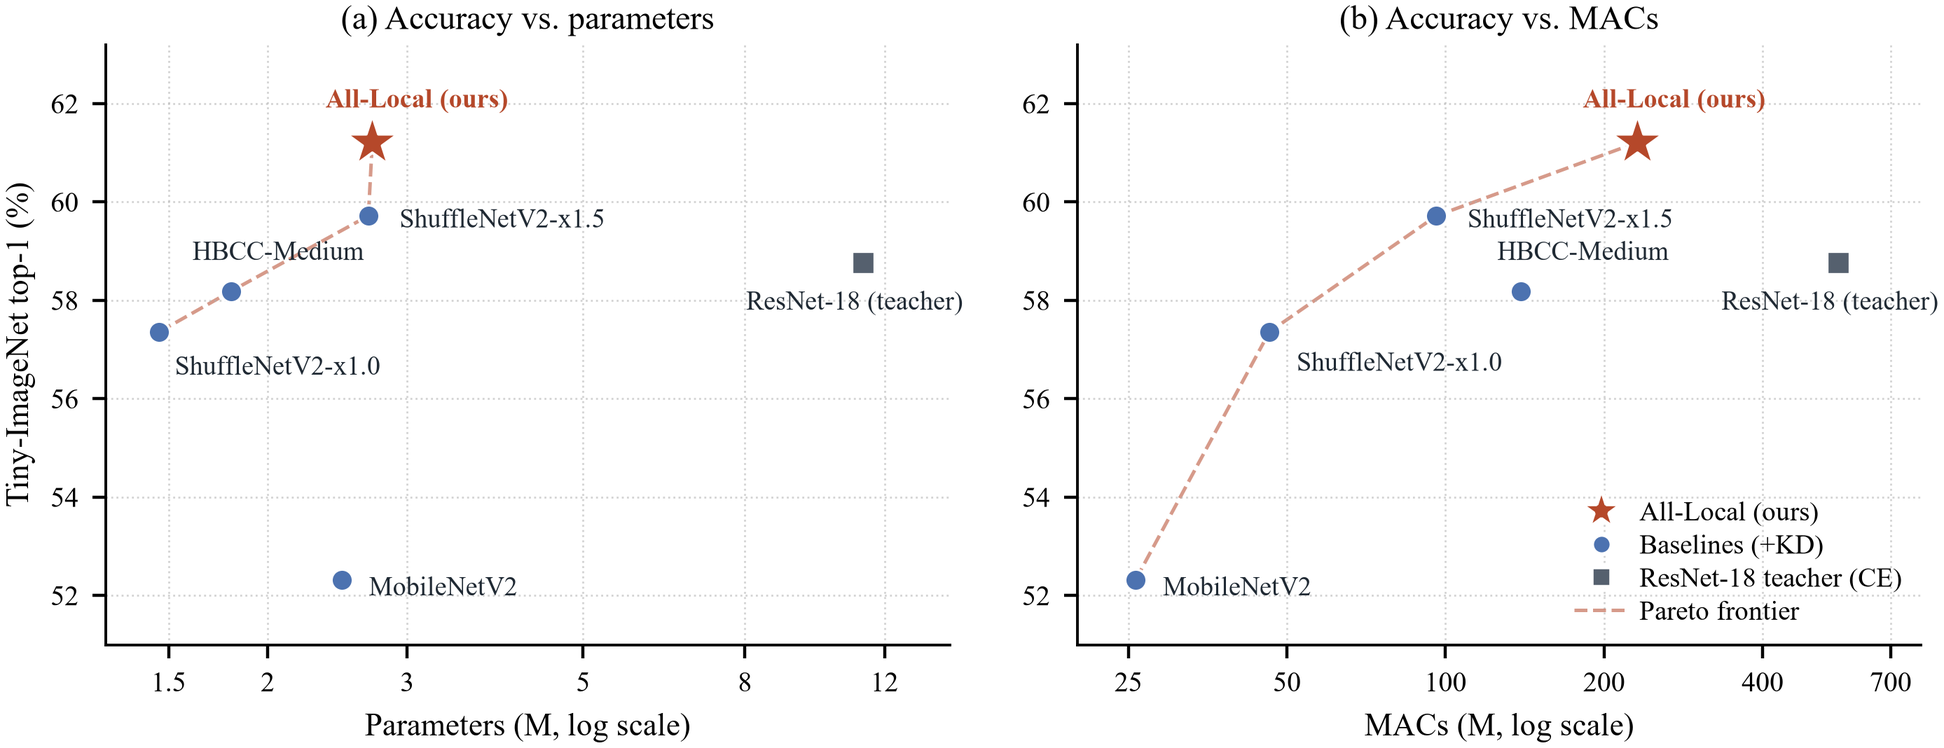
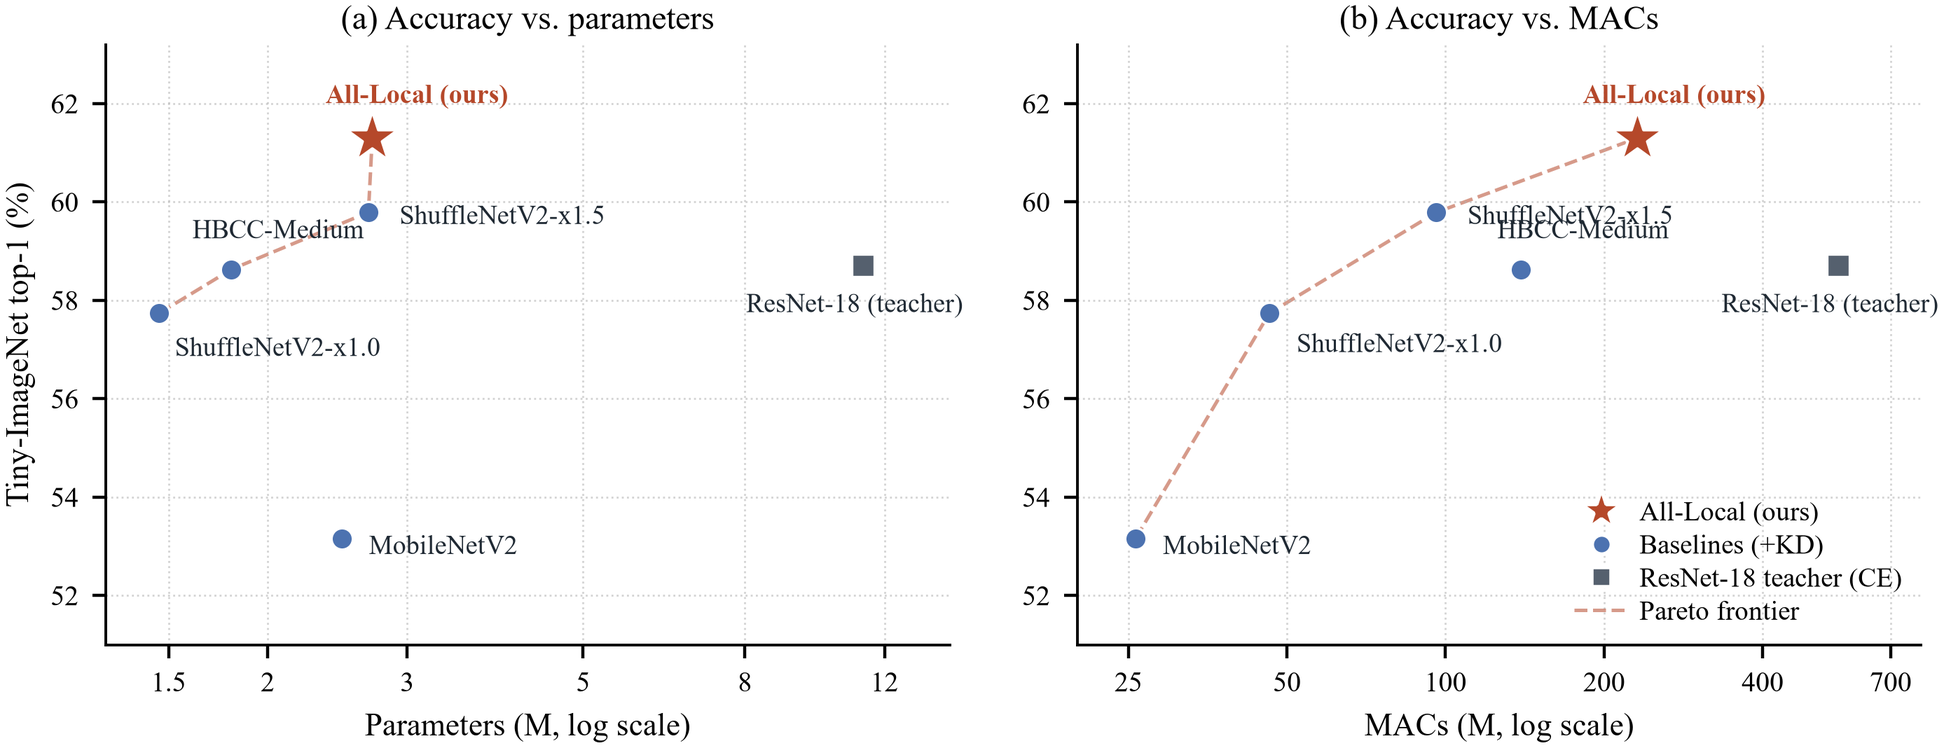
Report test accuracy instead of best-validation accuracy
Table I was reporting the best validation accuracy reached during training,
which is the quantity used for checkpoint selection and therefore optimistic.
Papers report held-out test accuracy, so switch every accuracy number in the
paper to the test split, recomputed from each run's test_predictions.npy.

Checkpoint selection is unaffected: test is evaluated once per run, after
best.pth has already been chosen on a separate validation split, so no
selection used these numbers.

Three conclusions move:

  - Tiny-ImageNet cross-entropy over ShuffleNetV2-x1.5 gains significance
    (+0.90 pp, p = 0.030, was +0.47 pp at p = 0.051).
  - CIFAR-10 cross-entropy loses it (+0.39 pp, p = 0.073, was p = 0.024).
  - Against the teacher under cross-entropy the sign flips, from -0.07 pp to
    +0.21 pp; it stays a tie (p = 0.345), so the conditional claim stands.

The distilled headline strengthens slightly: 61.30 +- 0.39 on Tiny-ImageNet,
+1.51 pp over x1.5 (p = 0.008) and +2.59 pp over the teacher (p = 0.003).
The distillation asymmetry narrows, from roughly one point to roughly six
tenths, and the prose now says so. The stage-1 operator comparison is an
exact tie on test (61.30 against 61.30), which does not change the decision
to adopt the learned convolution, since that rested on activation memory.

McNemar results are untouched: they always used test predictions.

Also fix an abstract overclaim that predates this change: the model exceeds
[…]

diff --git a/submission/section4_experiments.tex b/submission/section4_experiments.tex
@@ -68,35 +68,35 @@ are available at \mbox{\url{github.com/nvhungus/context-cluster-ablation}}.
 \label{sec:main}
 
 Table~\ref{tab:main} reports both datasets. Under distillation the proposed
-All-Local model reaches $61.21 \pm 0.40$ top-1 on Tiny-ImageNet, against $59.72 \pm 0.14$ for
+All-Local model reaches $61.30 \pm 0.39$ top-1 on Tiny-ImageNet, against $59.79 \pm 0.38$ for
 the parameter-matched ShuffleNetV2-x1.5 \cite{shufflenetv2} trained
-identically from the same teacher. The margin of $+1.49$ pp is significant at
-the seed level (Welch $t = 6.10$, $p = 0.016$) and, independently, on each of
+identically from the same teacher. The margin of $+1.51$ pp is significant at
+the seed level (Welch $t = 4.84$, $p = 0.008$) and, independently, on each of
 the three seeds under a paired McNemar test. The same model exceeds the
-ResNet-18 teacher that supervised it by $+2.46$ pp ($p = 0.008$) while using
+ResNet-18 teacher that supervised it by $+2.59$ pp ($p = 0.003$) while using
 $4.16\times$ fewer parameters and $2.41\times$ fewer multiply--accumulate
 operations. The comparison holds on CIFAR-10, where
-the proposed model leads ShuffleNetV2-x1.5 by $+0.53$ pp under distillation
-(Welch $p = 0.011$, with a paired McNemar test significant on each of the
-three seeds) and by $+0.41$ pp without it (Welch $p = 0.024$, McNemar
-significant on two of the three). There it matches the ResNet-18 teacher on
+the proposed model leads ShuffleNetV2-x1.5 by $+0.55$ pp under distillation
+(Welch $p = 0.008$, McNemar significant on all three seeds) and by $+0.39$ pp
+without it, which misses seed-level significance ($p = 0.073$) though McNemar
+is significant on two of three. There it matches the ResNet-18 teacher on
 the test set ($96.15$ against $96.16$, $p = 0.90$) at $4.25\times$ fewer
 parameters rather than exceeding it.
 
 \textbf{The cross-entropy picture is weaker, and we state it plainly.}
-Without distillation the proposed model reaches $58.69 \pm 0.10$ against
-$58.22 \pm 0.23$ for ShuffleNetV2-x1.5. That $+0.47$ pp margin does not reach
-significance at the seed level ($p = 0.051$), and against the ResNet-18
-teacher the proposed model is $-0.07$ pp, a tie ($p = 0.405$). The
+Without distillation the proposed model reaches $58.92 \pm 0.28$ against
+$58.02 \pm 0.36$ for ShuffleNetV2-x1.5. That $+0.90$ pp margin is significant
+over seeds ($p = 0.030$), but the CIFAR-10 margin of $+0.39$ pp is not, and
+against the ResNet-18 teacher the model is $+0.21$ pp, a tie ($p = 0.345$). The
 beat-the-teacher result reported above therefore holds \emph{in the distilled
 setting}, and we condition every such claim on that setting rather than
 presenting it as an unconditional property of the architecture.
 
 \textbf{An asymmetry we observe but do not explain.} Given the identical
-distillation recipe, the proposed model gains $+2.52$ pp from distillation
-while ShuffleNetV2-x1.5 gains $+1.50$ pp and ShuffleNetV2-x1.0 gains $+1.58$
-pp. The proposed design converts the same teacher signal into roughly one
-additional percentage point. We note that this is not explained by headroom:
+distillation recipe, the proposed model gains $+2.38$ pp from distillation
+while ShuffleNetV2-x1.5 gains $+1.77$ pp and ShuffleNetV2-x1.0 gains $+1.82$
+pp. The proposed design converts the same teacher signal into roughly six
+tenths of an additional point. We note that this is not explained by headroom:
 the proposed model has the \emph{higher} cross-entropy accuracy of the pair
 and therefore less room to improve, yet gains more. We have not tested a
 mechanism for this and do not propose one; we report it as an observation and
@@ -105,8 +105,8 @@ fixed, identical distillation protocol applied to every model, the proposed
 architecture is the more accurate one at a matched parameter budget.
 
 \textbf{A caveat about the MobileNetV2 row.} MobileNetV2 is the clear outlier
-in Table~\ref{tab:main}: at 2.48M parameters it reaches $49.25$ on
-Tiny-ImageNet, $6.53$ pp below a ShuffleNetV2-x1.0 that carries $41\%$ fewer
+in Table~\ref{tab:main}: at 2.48M parameters it reaches $49.49$ on
+Tiny-ImageNet, $6.43$ pp below a ShuffleNetV2-x1.0 that carries $41\%$ fewer
 parameters. The cause is resolution, and part of it is our own adaptation.
 Each of these networks was designed for $224\times224$ and reduces resolution
 $32\times$ end to end, which leaves a $1\times1$ map at $32\times32$ input, so
@@ -136,7 +136,7 @@ over cannot be rescued by parameters.
 % when a table* and a table are queued separately.
 \begin{table*}[!t]
 \renewcommand{\arraystretch}{1.15}
-\caption{\uppercase{Main results. Top-1 accuracy (\%) at $32\times32$, mean $\pm$ standard
+\caption{\uppercase{Main results. Top-1 test accuracy (\%) at $32\times32$, mean $\pm$ standard
 deviation over $n$ seeds. Tiny-ImageNet: 100 epochs, $n$ as shown. CIFAR-10:
 250 epochs, three seeds for the proposed model, ShuffleNetV2-x1.5 and the
 teacher and a single seed for the remaining baselines. Every distilled student uses the same ResNet-18
@@ -153,14 +153,14 @@ variants differ only in the classifier.}}
 \cmidrule(lr){4-5}\cmidrule(lr){6-7}
 Model & Params & MACs & CE ($n$) & KD ($n$) & CE & KD \\
 \midrule
-ResNet-18 (teacher) \cite{resnet} & 11.27M & 556.8M & $58.76${\scriptsize$\pm$0.06} (3) & -- & $96.68${\scriptsize$\pm$0.07} & -- \\
-MobileNetV2 \cite{mobilenetv2} & 2.48M & 25.8M & $49.25$ (1) & $52.32$ (1) & $94.06$ & $94.28$ \\
-ShuffleNetV2-x1.0 \cite{shufflenetv2} & 1.46M & 46.3M & $55.78${\scriptsize$\pm$0.30} (3) & $57.36${\scriptsize$\pm$0.40} (3) & $95.40$ & $95.22$ \\
-ShuffleNetV2-x1.5 \cite{shufflenetv2} & 2.68M & 96.1M & $58.22${\scriptsize$\pm$0.23} (3) & $59.72${\scriptsize$\pm$0.14} (3) & $95.69${\scriptsize$\pm$0.16} & $95.97${\scriptsize$\pm$0.11} \\
-Context Cluster \cite{coc} & 2.46M & 34.4M & $49.45$ (1) & -- & $92.74$ & -- \\
-Hybrid baseline ($\rho{=}0.5$) & 1.80M & 138.9M & $56.40${\scriptsize$\pm$0.21} (3) & $58.19${\scriptsize$\pm$0.25} (3) & $95.44$ & $96.16$ \\
+ResNet-18 (teacher) \cite{resnet} & 11.27M & 556.8M & $58.71${\scriptsize$\pm$0.17} (3) & -- & $96.16${\scriptsize$\pm$0.06} & -- \\
+MobileNetV2 \cite{mobilenetv2} & 2.48M & 25.8M & $49.49$ (1) & $53.16$ (1) & $93.61$ & $93.96$ \\
+ShuffleNetV2-x1.0 \cite{shufflenetv2} & 1.46M & 46.3M & $55.92${\scriptsize$\pm$0.14} (3) & $57.74${\scriptsize$\pm$0.27} (3) & $94.47$ & $94.82$ \\
+ShuffleNetV2-x1.5 \cite{shufflenetv2} & 2.68M & 96.1M & $58.02${\scriptsize$\pm$0.36} (3) & $59.79${\scriptsize$\pm$0.38} (3) & $95.28${\scriptsize$\pm$0.11} & $95.60${\scriptsize$\pm$0.15} \\
+Context Cluster \cite{coc} & 2.46M & 34.4M & $49.56$ (1) & -- & $92.24$ & -- \\
+Hybrid baseline ($\rho{=}0.5$) & 1.80M & 138.9M & $56.39${\scriptsize$\pm$0.19} (3) & $58.63${\scriptsize$\pm$0.14} (3) & $95.08$ & $95.19$ \\
 \midrule
-\textbf{All-Local (ours)} & 2.71M & 231.3M & $\mathbf{58.69}${\scriptsize$\pm$0.10} (3) & $\mathbf{61.21}${\scriptsize$\pm$0.40} (3) & $\mathbf{96.10}${\scriptsize$\pm$0.11} & $\mathbf{96.50}${\scriptsize$\pm$0.16} \\
+\textbf{All-Local (ours)} & 2.71M & 231.3M & $\mathbf{58.92}${\scriptsize$\pm$0.28} (3) & $\mathbf{61.30}${\scriptsize$\pm$0.39} (3) & $\mathbf{95.68}${\scriptsize$\pm$0.22} & $\mathbf{96.15}${\scriptsize$\pm$0.12} \\
 \bottomrule
 \end{tabular}
 \end{table*}
@@ -175,19 +175,19 @@ that each row isolates a single factor.
 
 \textbf{Clustering does not pay for itself.} Setting $\rho = 0$, which removes
 the local convolutional branch and leaves pure clustering while keeping every
-other choice identical, costs $0.74$ pp. Setting $\rho = 1$ instead, removing
-the clustering branch entirely, \emph{gains} $+1.03$ pp while using 10\% fewer
+other choice identical, costs $0.39$ pp. Setting $\rho = 1$ instead, removing
+the clustering branch entirely, \emph{gains} $+0.94$ pp while using 10\% fewer
 parameters. The two rows bracket the question the paper asks: at this scale and
 resolution the local branch is what carries the accuracy, and the clustering
 branch is a net cost.
 
 \textbf{The supporting design choices contribute little.} Removing fold
-partitioning ($+0.20$ pp) and removing channel shuffle ($+0.25$ pp) both leave
+partitioning ($+0.27$ pp) and removing channel shuffle ($-0.11$ pp) both leave
 accuracy unchanged within run-to-run variation, so neither is load-bearing.
-Changing cluster occupancy in either direction hurts, by $1.02$ pp at $r = 1$
-and $0.80$ pp at $r = 4$, and giving stage~4 four centres instead of one costs
-$0.31$ pp. The single largest effect in the table is the stem stride: moving
-from stride~1 to stride~2 costs $5.72$ pp. Because that change halves the
+Changing cluster occupancy in either direction hurts, by $0.38$ pp at $r = 1$
+and $1.36$ pp at $r = 4$, and giving stage~4 four centres instead of one costs
+$0.52$ pp. The single largest effect in the table is the stem stride: moving
+from stride~1 to stride~2 costs $5.59$ pp. Because that change halves the
 resolution entering every stage as well as altering cluster occupancy, we
 attribute the bulk of it to resolution rather than to clustering.
 
@@ -195,9 +195,9 @@ attribute the bulk of it to resolution rather than to clustering.
 Table~\ref{tab:operator} compares the fixed sparse LBP-pattern filters used at
 stage~1 of the hybrid model against a plain learned $3\times3$ convolution at
 matched parameters. At 1.62M parameters the learned convolution is ahead by
-$0.10$ pp (McNemar $p = 0.63$); at the 2.71M scale of the proposed model the
-two are indistinguishable over three seeds ($61.21 \pm 0.40$ against
-$61.23 \pm 0.28$, Welch $p = 0.956$). The learned convolution nevertheless
+$0.19$ pp (McNemar $p = 0.63$); at the 2.71M scale of the proposed model the
+two are indistinguishable over three seeds ($61.30 \pm 0.39$ against
+$61.30 \pm 0.15$, Welch $p = 1.00$). The learned convolution nevertheless
 uses $2.50\times$ less peak activation memory at batch 128, because the fixed
 filters expand the channel count eightfold before projecting back. We
 therefore adopt the learned convolution: the hand-designed operator buys no
@@ -205,8 +205,8 @@ accuracy and costs memory.
 
 \begin{table}[!t]
 \renewcommand{\arraystretch}{1.15}
-\caption{\uppercase{One-change ablations on Tiny-ImageNet, cross-entropy.
-Each row changes exactly one design decision from the hybrid baseline.}}
+\caption{\uppercase{One-change ablations on Tiny-ImageNet, cross-entropy, on
+test. Each row changes exactly one design decision from the hybrid baseline.}}
 \label{tab:ablation}
 \centering
 \footnotesize
@@ -214,17 +214,17 @@ Each row changes exactly one design decision from the hybrid baseline.}}
 \toprule
 Configuration & Top-1 (\%) & $n$ & $\Delta$ \\
 \midrule
-Hybrid baseline ($\rho{=}0.5$) & $56.40${\scriptsize$\pm$0.21} & 3 & -- \\
+Hybrid baseline ($\rho{=}0.5$) & $56.39${\scriptsize$\pm$0.19} & 3 & -- \\
 \midrule
-$\rho = 0$ (clustering only) & $55.66${\scriptsize$\pm$0.20} & 3 & $-0.74$ \\
-$\rho = 1$ (local only, 1.62M) & $57.43${\scriptsize$\pm$0.14} & 3 & $\mathbf{+1.03}$ \\
+$\rho = 0$ (clustering only) & $56.00${\scriptsize$\pm$0.38} & 3 & $-0.39$ \\
+$\rho = 1$ (local only, 1.62M) & $57.33${\scriptsize$\pm$0.08} & 3 & $\mathbf{+0.94}$ \\
 \midrule
-No fold partitioning & $56.60$ & 1 & $+0.20$ \\
-No channel shuffle & $56.65$ & 1 & $+0.25$ \\
-Stage-4 $2\times2$ proposals & $56.09$ & 1 & $-0.31$ \\
-Occupancy $r = 1$ & $55.38$ & 1 & $-1.02$ \\
-Occupancy $r = 4$ & $55.60$ & 1 & $-0.80$ \\
-Stem stride $1 \rightarrow 2$ & $50.68$ & 1 & $\mathbf{-5.72}$ \\
+No fold partitioning & $56.66$ & 1 & $+0.27$ \\
+No channel shuffle & $56.28$ & 1 & $-0.11$ \\
+Stage-4 $2\times2$ proposals & $55.87$ & 1 & $-0.52$ \\
+Occupancy $r = 1$ & $56.01$ & 1 & $-0.38$ \\
+Occupancy $r = 4$ & $55.03$ & 1 & $-1.36$ \\
+Stem stride $1 \rightarrow 2$ & $50.80$ & 1 & $\mathbf{-5.59}$ \\
 \bottomrule
 \end{tabular}
 \end{table}
@@ -241,11 +241,11 @@ memory at batch 128, in MB.}}
 \toprule
 Scale & Stage-1 operator & $n$ & Top-1 (\%) & Mem. \\
 \midrule
-\multirow{2}{*}{1.62M, CE} & fixed LBP & 1 & $57.31$ & 797 \\
- & learned $3\times3$ & 1 & $57.41$ & 317 \\
+\multirow{2}{*}{1.62M, CE} & fixed LBP & 1 & $57.32$ & 797 \\
+ & learned $3\times3$ & 1 & $57.51$ & 317 \\
 \midrule
-\multirow{2}{*}{2.71M, KD} & fixed LBP & 3 & $61.23${\scriptsize$\pm$0.28} & 1037 \\
- & \textbf{learned} $\mathbf{3\times3}$ & 3 & $61.21${\scriptsize$\pm$0.40} & \textbf{415} \\
+\multirow{2}{*}{2.71M, KD} & fixed LBP & 3 & $61.30${\scriptsize$\pm$0.15} & 1037 \\
+ & \textbf{learned} $\mathbf{3\times3}$ & 3 & $61.30${\scriptsize$\pm$0.39} & \textbf{415} \\
 \bottomrule
 \end{tabular}
 \end{table}
@@ -272,7 +272,7 @@ occupies 10.37\,MB of weights and 22.58\,MB of peak memory, against 43.03\,MB
 and 58.75\,MB for the ResNet-18 teacher: a $4.15\times$ reduction in model
 size and a $2.60\times$ reduction in peak memory, together with $2.41\times$
 fewer operations and a $2.18\times$ lower graph-captured latency (0.804\,ms
-against 1.752\,ms), while being 2.46\,pp more accurate. Against the
+against 1.752\,ms), while being 2.59\,pp more accurate. Against the
 parameter-matched ShuffleNetV2-x1.5 the proposed model uses $2.41\times$ more
 operations, but the measured deployment cost is close: 22.58\,MB against
 20.85\,MB of peak memory at batch one ($1.08\times$) and 0.804\,ms against
@@ -330,7 +330,8 @@ Hybrid baseline ($\rho{=}0.5$) & 1.80M & 138.9M & 19.70 & 481.6 & 7.68 & 1.212 &
 \includegraphics[width=\textwidth]{fig2_pareto.pdf}
 \caption{Tiny-ImageNet accuracy against parameters (a) and against
 multiply--accumulate operations (b), both on logarithmic axes. Accuracy is
-the mean over three seeds; cost is measured on a Tesla T4 in a single
+top-1 on test over three seeds (MobileNetV2, one seed); cost is measured on a
+Tesla T4 in a single
 session. Every baseline shown is distilled from the same ResNet-18 teacher;
 the teacher itself is trained with cross-entropy and is marked separately.
 The proposed model lies on the parameter frontier but not on the operation

diff --git a/submission/sections_intro_related_method.tex b/submission/sections_intro_related_method.tex
@@ -66,28 +66,28 @@ table.
 
 The ablations point one way. Removing the local branch while holding the stem,
 folds, depth and width fixed --- the comparison that isolates clustering from
-everything it is usually bundled with --- costs $0.74$ pp. Removing the
-clustering branch instead gains $1.03$ pp, at 10\% fewer parameters. Fold
+everything it is usually bundled with --- costs $0.39$ pp. Removing the
+clustering branch instead gains $0.94$ pp, at 10\% fewer parameters. Fold
 partitioning and channel shuffle change accuracy by less than run-to-run
 variation. The largest single effect in the whole study is the stem stride, at
-$-5.72$ pp, and because stride~2 halves the resolution entering every
+$-5.59$ pp, and because stride~2 halves the resolution entering every
 subsequent stage, most of that belongs to resolution rather than to anything
 specific to clustering. At this scale the local branch carries the accuracy
 and the clustering branch is a net cost.
 
 Following that conclusion produces a design with no clustering in it at all.
 Scaled to 2.71M parameters, given $7\times7$ depthwise kernels, and trained
-with logit distillation, it reaches $61.21 \pm 0.40$ on Tiny-ImageNet. It
-leads a parameter-matched ShuffleNetV2-x1.5 \cite{shufflenetv2} by $1.49$ pp
-and its own ResNet-18 teacher by $2.46$ pp, both significant over seeds and
+with logit distillation, it reaches $61.30 \pm 0.39$ on Tiny-ImageNet. It
+leads a parameter-matched ShuffleNetV2-x1.5 \cite{shufflenetv2} by $1.51$ pp
+and its own ResNet-18 teacher by $2.59$ pp, both significant over seeds and
 confirmed by a paired test on every seed individually. We chose
 ShuffleNetV2-x1.5 as the primary baseline because an earlier version of our
 model lost to it, and we report it rather than substituting something weaker.
 
 Two caveats belong in the opening rather than buried later. The win holds
 under distillation; with plain cross-entropy the margin over
-ShuffleNetV2-x1.5 falls to $0.47$ pp and does not reach significance, and the
-model merely ties its teacher. And the accuracy is bought with compute: at
+ShuffleNetV2-x1.5 narrows to $0.90$ pp on Tiny-ImageNet and to a
+non-significant $0.39$ pp on CIFAR-10, and the model merely ties its teacher. And the accuracy is bought with compute: at
 matched parameters the proposed model performs 231M multiply--accumulates
 against ShuffleNetV2-x1.5's 96M, though still well under the 557M of the
 ResNet-18 it beats.
@@ -221,7 +221,7 @@ hand-designed filters. Fig.~\ref{fig:arch} shows it.
 
 The stem is a $3\times3$ convolution at stride~1, so stage~1 operates at the
 full $32\times32$ resolution. This is the single most consequential choice in
-the model: moving the stem to stride~2 costs $5.72$ pp
+the model: moving the stem to stride~2 costs $5.59$ pp
 (Table~\ref{tab:ablation}), far more than any other decision we varied. At
 $32\times32$ input there is little spatial information to discard, and
 discarding half of it at the first layer is not recoverable downstream.
@@ -231,9 +231,9 @@ credited the wrong one. It halves the resolution reaching every stage, and it
 also halves the number of points available to each cluster, which the hybrid
 model was designed to avoid. Our ablations bound the second effect. Driving
 occupancy to its degenerate limit directly, one point per centre at every
-stage, costs $1.02$ pp (Table~\ref{tab:ablation}); the occupancy change a
-stride-2 stem induces is milder than that. So at most roughly a fifth of the
-$5.72$ pp can be attributed to cluster occupancy and the remainder belongs to
+stage, costs $0.38$ pp (Table~\ref{tab:ablation}); the occupancy change a
+stride-2 stem induces is milder than that. So under a tenth of the
+$5.59$ pp can be attributed to cluster occupancy and the remainder belongs to
 resolution. The practical reading is that the stem stride is not evidence for
 clustering: it is evidence that $32\times32$ inputs cannot afford early
 downsampling, which would be true of any architecture.

diff --git a/submission/sections_discussion_conclusion.tex b/submission/sections_discussion_conclusion.tex
@@ -7,7 +7,7 @@
 
 The result we are most confident in is negative. Built into the same
 MetaFormer skeleton, a pure-clustering model trails a pure-local one by
-$1.77$ pp at one to three million parameters and $32\times32$ input, and the
+$1.33$ pp at one to three million parameters and $32\times32$ input, and the
 local model carries 10\% fewer parameters while doing it. The supporting
 machinery built around clustering
 --- fold partitioning, channel shuffle, a tuned occupancy --- moves accuracy
@@ -20,16 +20,16 @@ The positive result is narrower than the headline number suggests, in three
 specific ways.
 
 \textbf{It depends on distillation.} Under cross-entropy the proposed model
-leads ShuffleNetV2-x1.5 by $0.47$ pp, which does not reach significance over
-three seeds ($p = 0.051$), and it does not beat the ResNet-18 teacher at all
-($-0.07$ pp, $p = 0.405$). Only with distillation does the margin reach $1.49$
-pp and the teacher comparison reverse. Every claim in this paper about
+leads ShuffleNetV2-x1.5 by $0.90$ pp on Tiny-ImageNet ($p = 0.030$) but by a
+non-significant $0.39$ pp on CIFAR-10 ($p = 0.073$), and it does not beat the
+ResNet-18 teacher ($+0.21$ pp, $p = 0.345$). Only with distillation does the
+margin reach $1.51$ pp and the teacher comparison reverse. Every claim in this paper about
 exceeding the teacher is therefore a claim about the distilled setting.
 
 \textbf{We cannot explain the distillation asymmetry.} Given an identical
-teacher, temperature and loss weight, the proposed model gains $2.52$ pp from
-distillation while ShuffleNetV2-x1.5 gains $1.50$ pp and ShuffleNetV2-x1.0
-gains $1.58$ pp. The obvious explanation, that a weaker model has more room to
+teacher, temperature and loss weight, the proposed model gains $2.38$ pp from
+distillation while ShuffleNetV2-x1.5 gains $1.77$ pp and ShuffleNetV2-x1.0
+gains $1.82$ pp. The obvious explanation, that a weaker model has more room to
 improve, predicts the opposite of what we observe: the proposed model has the
 higher cross-entropy accuracy and still gains more.
 
@@ -108,13 +108,13 @@ with the stem, the depth and the fold design.
 We set out to test whether context clustering earns its place in a lightweight
 classifier at low resolution, and found that it does not: at a matched
 parameter budget, replacing the clustering branch with a convolutional one
-improves Tiny-ImageNet accuracy by $1.03$ pp while using fewer parameters, and
+improves Tiny-ImageNet accuracy by $0.94$ pp while using fewer parameters, and
 the design choices that surround clustering contribute less than seed
 variance. Carrying that conclusion through yields a clustering-free model
 which, at 2.71M parameters with $7\times7$ depthwise kernels and logit
-distillation, reaches $61.21 \pm 0.40$ on Tiny-ImageNet and $96.50 \pm 0.16$ on
-CIFAR-10, exceeding a parameter-matched ShuffleNetV2-x1.5 by $1.49$ pp and its
-own ResNet-18 teacher by $2.46$ pp while using $4.16\times$ fewer parameters
+distillation, reaches $61.30 \pm 0.39$ on Tiny-ImageNet and $96.15 \pm 0.12$ on
+CIFAR-10, exceeding a parameter-matched ShuffleNetV2-x1.5 by $1.51$ pp and its
+own ResNet-18 teacher by $2.59$ pp while using $4.16\times$ fewer parameters
 than that teacher. The gain is conditional on distillation and costs
 $2.41\times$ the operations of the parameter-matched baseline, and we report
 both alongside the measured memory and latency rather than parameter counts

diff --git a/paper/figures/fig2_pareto.py b/paper/figures/fig2_pareto.py
@@ -40,12 +40,12 @@ plt.rcParams.update({
 # name, params (M), MACs (M), top-1 (%), is_ours, is_teacher,
 # label offset for panel (a) and for panel (b), in points
 MODELS = [
-    ("MobileNetV2",         2.48,  25.8, 52.32, False, False, (7, -4),   (7, -4)),
-    ("ShuffleNetV2-x1.0",   1.46,  46.3, 57.36, False, False, (4, -11),  (7, -10)),
-    ("ShuffleNetV2-x1.5",   2.68,  96.1, 59.72, False, False, (8, -3),   (8, -3)),
-    ("HBCC-Medium",         1.80, 138.9, 58.19, False, False, (-10, 8),  (-6, 8)),
-    ("ResNet-18 (teacher)", 11.27, 556.8, 58.76, False, True, (-30, -12), (-30, -12)),
-    ("All-Local (ours)",    2.71, 231.3, 61.21, True,  False, (-12, 9),  (-14, 9)),
+    ("MobileNetV2",         2.48,  25.8, 53.16, False, False, (7, -4),   (7, -4)),
+    ("ShuffleNetV2-x1.0",   1.46,  46.3, 57.74, False, False, (4, -11),  (7, -10)),
+    ("ShuffleNetV2-x1.5",   2.68,  96.1, 59.79, False, False, (8, -3),   (8, -3)),
+    ("HBCC-Medium",         1.80, 138.9, 58.63, False, False, (-10, 8),  (-6, 8)),
+    ("ResNet-18 (teacher)", 11.27, 556.8, 58.71, False, True, (-30, -12), (-30, -12)),
+    ("All-Local (ours)",    2.71, 231.3, 61.30, True,  False, (-12, 9),  (-14, 9)),
 ]
 
 C_BASE = "#4C72B0"

diff --git a/submission/main.tex b/submission/main.tex
@@ -200,8 +200,9 @@ matter because of input resolution rather than because of grouping. A
 hand-designed sparse local filter is likewise matched by a plain learned
 convolution at equal parameters, while costing considerably more activation
 memory. Carrying these findings through yields a clustering-free design that,
-at the parameter budget of a strong lightweight baseline, exceeds both that
-baseline and the larger network used to distil it, on two datasets. The gain
+at the parameter budget of a strong lightweight baseline, exceeds that baseline
+on both datasets and, on the harder one, the larger network used to distil it.
+The gain
 holds under distillation and is paid for in arithmetic, and we report measured
 memory and latency on real hardware alongside parameter counts, showing that
 operation counts are a poor predictor of measured speed for models of this
